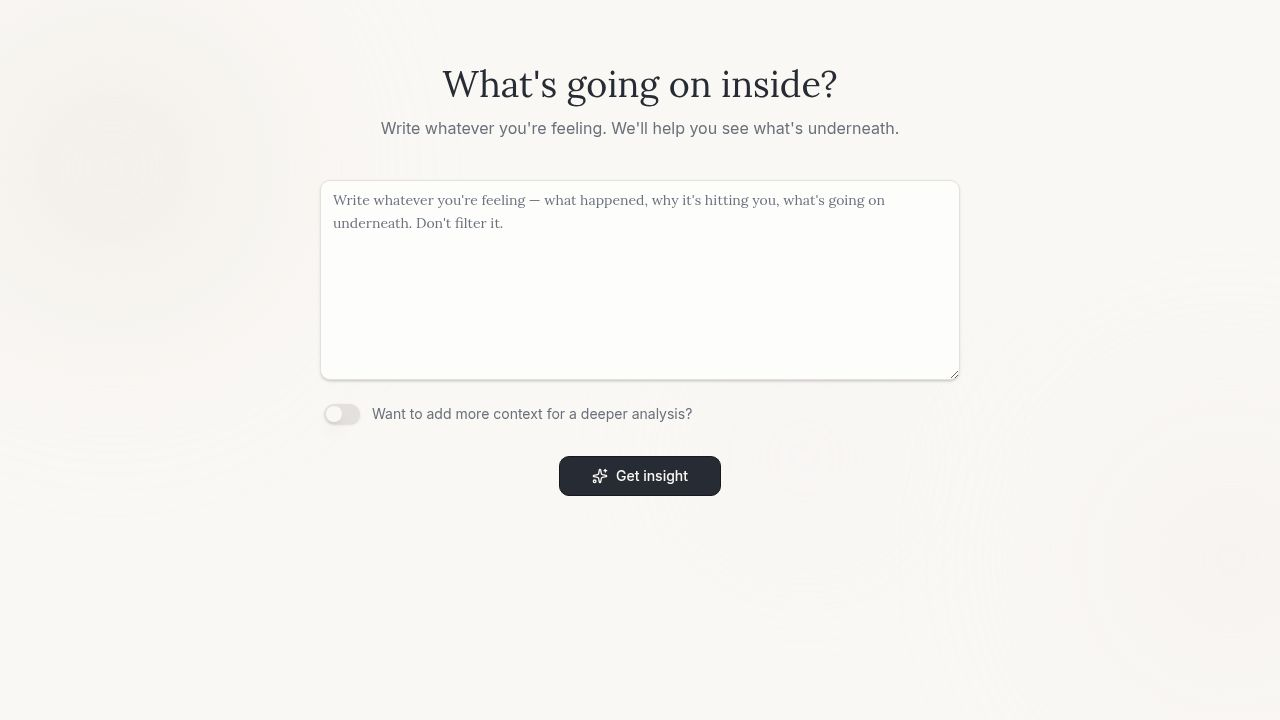
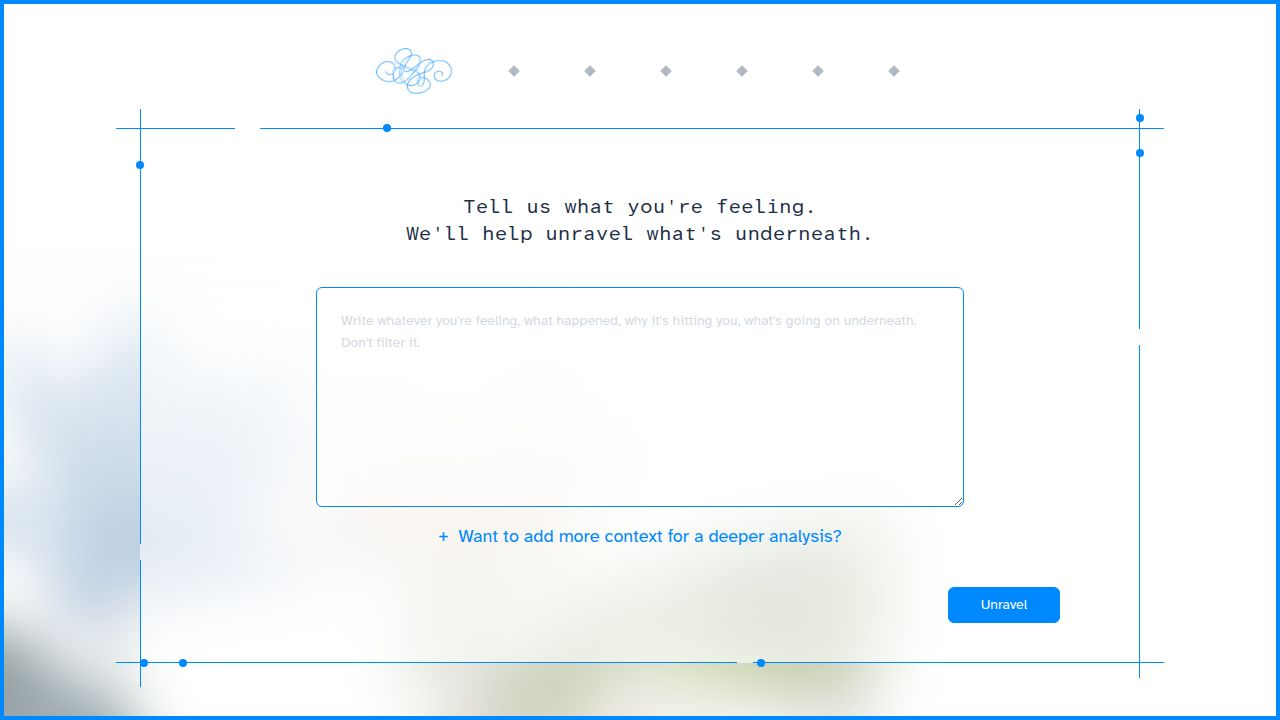
Add interactive breathing animation and refine visual cues
Replace CSS-based animation with a frame-by-frame interactive breathing animation using imported images. Adjust styling for past-visited stages in the progress chain to be less prominent, and ensure the initial animation sequence plays correctly upon first load.

Replit-Commit-Author: Agent
Replit-Commit-Session-Id: 55523b7d-f176-4534-abe3-9e66463d3b3c
Replit-Commit-Checkpoint-Type: full_checkpoint
Replit-Commit-Event-Id: a296139a-07cd-4907-84ef-dc913e513e39
Replit-Commit-Screenshot-Url: https://storage.googleapis.com/screenshot-production-us-central1/5592a5e6-8259-40c3-8d3c-d88697db1bb4/55523b7d-f176-4534-abe3-9e66463d3b3c/Kv6kiFz
Replit-Helium-Checkpoint-Created: true

diff --git a/artifacts/emotional-insight/src/index.css b/artifacts/emotional-insight/src/index.css
@@ -395,9 +395,12 @@
   z-index: -1;
   pointer-events: none;
 }
-/* PAST clickable beads — soft STILL glow. */
+/* PAST (visited) clickable beads — soft STILL glow, smaller/tighter than the
+   current and next beads so completed stages read as quietly "done". */
 .chain-art .chain-bead.past:not(.decorative)::before {
-  background: rgba(0,136,255,0.45);
+  inset: 20%;
+  filter: blur(5px);
+  background: rgba(0,136,255,0.38);
 }
 /* NEXT clickable bead — same glow, gently pulsing in intensity (opacity only,
    so nothing re-rasterizes the bead). */
@@ -599,61 +602,39 @@
 }
 
 /* ── Breathing quatrefoil (intermission "take a breath" animation) ─────────
-   A four-petal cluster rotated 45° so it reads as a diamond/clover. Each loop:
-   inhale — petals draw tight and a white diamond opens at the centre; hold;
-   exhale — the four petals bloom apart into separate dots and fade away,
-   then the cycle resets. ~6s for a calm breathing cadence. */
+   A click-to-play frame sequence (exported from Figma): the blue clover opens
+   a white centre, blooms apart into petals, then dissolves. At rest it shows
+   the full clover with a faint "tap to breathe" hint. */
 .breath-bloom {
   position: relative;
-  width: 96px;
-  height: 96px;
-  transform: rotate(45deg);
+  width: 132px;
+  height: 132px;
+  padding: 0;
+  border: none;
+  background: transparent;
+  cursor: pointer;
+  display: flex;
+  align-items: center;
+  justify-content: center;
 }
-/* Each petal is a rounded blob; the cluster forms the quatrefoil when tight. */
-.breath-bloom .bb-petal {
+.breath-bloom img {
+  width: 115px;
+  height: 115px;
+  display: block;
+  pointer-events: none;
+}
+.breath-bloom .breath-bloom-hint {
   position: absolute;
-  width: 50%;
-  height: 50%;
-  background: #0088ff;
-  border-radius: 42%;
-  animation: bb-breathe 6s ease-in-out infinite;
+  bottom: -26px;
+  left: 50%;
+  transform: translateX(-50%);
+  font-size: 0.75rem;
+  letter-spacing: 0.04em;
+  color: #a8b3c1;
+  white-space: nowrap;
+  transition: opacity 0.3s ease;
 }
-.breath-bloom .bb-petal.tl { top: 0;   left: 0;   transform-origin: bottom right; }
-.breath-bloom .bb-petal.tr { top: 0;   right: 0;  transform-origin: bottom left;  }
-.breath-bloom .bb-petal.bl { bottom: 0; left: 0;  transform-origin: top right;    }
-.breath-bloom .bb-petal.br { bottom: 0; right: 0; transform-origin: top left;     }
-/* White diamond that opens at the centre on the inhale. */
-.breath-bloom .bb-core {
-  position: absolute;
-  inset: 38%;
-  background: #ffffff;
-  border-radius: 16%;
-  animation: bb-core 6s ease-in-out infinite;
-}
-/* Petals start tight (overlapping into a quatrefoil), bloom outward, fade. */
-@keyframes bb-breathe {
-  0%             { transform: translate(0, 0) scale(1);     opacity: 1; }
-  35%            { transform: translate(0, 0) scale(1.04);  opacity: 1; }  /* inhale: gentle swell */
-  60%            { transform: translate(0, 0) scale(1);     opacity: 1; }  /* hold */
-  82%            { transform: translate(var(--bb-x), var(--bb-y)) scale(0.62); opacity: 0; } /* exhale: bloom apart + fade */
-  100%           { transform: translate(0, 0) scale(1);     opacity: 1; }  /* reset */
-}
-.breath-bloom .bb-petal.tl { --bb-x: -26px; --bb-y: -26px; }
-.breath-bloom .bb-petal.tr { --bb-x:  26px; --bb-y: -26px; }
-.breath-bloom .bb-petal.bl { --bb-x: -26px; --bb-y:  26px; }
-.breath-bloom .bb-petal.br { --bb-x:  26px; --bb-y:  26px; }
-@keyframes bb-core {
-  0%   { inset: 42%; opacity: 0; }
-  35%  { inset: 30%; opacity: 1; }   /* opens on the inhale */
-  60%  { inset: 30%; opacity: 1; }   /* hold */
-  78%  { inset: 46%; opacity: 0; }   /* closes as petals bloom away */
-  100% { inset: 42%; opacity: 0; }
-}
-@media (prefers-reduced-motion: reduce) {
-  .breath-bloom .bb-petal,
-  .breath-bloom .bb-core { animation: none; }
-  .breath-bloom .bb-core { inset: 30%; opacity: 1; }
-}
+.breath-bloom:hover .breath-bloom-hint { color: #0088ff; }
 
 /* ── Timeframe selector (What you can do) — mirrors the input diamond chips ─ */
 .timeframe-row {

diff --git a/artifacts/emotional-insight/src/components/result/BreathBloom.tsx b/artifacts/emotional-insight/src/components/result/BreathBloom.tsx
@@ -1,0 +1,78 @@
+import { useEffect, useRef, useState } from "react";
+import f34 from "@assets/Property_1=Frame_34_1780007170989.png";
+import f35 from "@assets/Property_1=Frame_35_1780007170990.png";
+import f36 from "@assets/Property_1=Frame_36_1780007170990.png";
+import f37 from "@assets/Property_1=Frame_37_1780007170991.png";
+import f38 from "@assets/Property_1=Frame_38_1780007170991.png";
+import f39 from "@assets/Property_1=Frame_39_1780007170991.png";
+import f40 from "@assets/Property_1=Frame_40_1780007170991.png";
+import f41 from "@assets/Property_1=Frame_41_1780007170991.png";
+import f42 from "@assets/Property_1=Frame_42_1780007170991.png";
+import f43 from "@assets/Property_1=Frame_43_1780007170992.png";
+import f44 from "@assets/Property_1=Frame_44_1780007170992.png";
+import f45 from "@assets/Property_1=Frame_45_1780007170992.png";
+import f46 from "@assets/Property_1=Frame_46_1780007170993.png";
+import f47 from "@assets/Property_1=Frame_47_1780007170993.png";
+
+/** Ordered bloom-and-dissolve frames from the Figma design. */
+const FRAMES = [f34, f35, f36, f37, f38, f39, f40, f41, f42, f43, f44, f45, f46, f47];
+const FRAME_MS = 85;
+
+/**
+ * Click-to-play breathing animation. Shows the full quatrefoil (first frame)
+ * at rest; tapping plays the frame sequence once — the clover opens, blooms
+ * apart and dissolves — then resets so it can be played again.
+ */
+export function BreathBloom() {
+  const [frame, setFrame] = useState(0);
+  const [playing, setPlaying] = useState(false);
+  const intervalRef = useRef<number | null>(null);
+  const resetRef = useRef<number | null>(null);
+
+  function clearTimers() {
+    if (intervalRef.current != null) window.clearInterval(intervalRef.current);
+    if (resetRef.current != null) window.clearTimeout(resetRef.current);
+    intervalRef.current = null;
+    resetRef.current = null;
+  }
+
+  useEffect(() => clearTimers, []);
+
+  function play() {
+    if (playing) return;
+    clearTimers();
+    setPlaying(true);
+    setFrame(0);
+    let i = 0;
+    intervalRef.current = window.setInterval(() => {
+      i += 1;
+      if (i >= FRAMES.length) {
+        clearTimers();
+        // Hold on the empty final frame briefly, then restore the clover.
+        resetRef.current = window.setTimeout(() => {
+          setFrame(0);
+          setPlaying(false);
+        }, 700);
+        return;
+      }
+      setFrame(i);
+    }, FRAME_MS);
+  }
+
+  return (
+    <button
+      type="button"
+      className="breath-bloom"
+      onClick={play}
+      aria-label="Play a breathing animation"
+      data-testid="button-breath-bloom"
+    >
+      <img src={FRAMES[frame]} alt="" aria-hidden />
+      {!playing && (
+        <span className="breath-bloom-hint" aria-hidden>
+          tap to breathe
+        </span>
+      )}
+    </button>
+  );
+}

diff --git a/artifacts/emotional-insight/src/components/result/InsightView.tsx b/artifacts/emotional-insight/src/components/result/InsightView.tsx
@@ -2,6 +2,7 @@ import { useState, useEffect } from "react";
 import { motion, AnimatePresence } from "framer-motion";
 import { AppFrame } from "@/components/AppFrame";
 import { ChainArtTransition } from "./ChainArt";
+import { BreathBloom } from "./BreathBloom";
 import type { AnalyzeReflectionResponseType } from "@/lib/api";
 
 interface InsightViewProps {
@@ -278,13 +279,7 @@ function BreathStep() {
       <p style={{ fontFamily: "var(--app-font-heading)", fontSize: "1.375rem", color: "#1d2e48", margin: 0, textAlign: "center" }}>
         That was a lot. Take a breath.
       </p>
-      <div className="breath-bloom" aria-hidden>
-        <div className="bb-petal tl" />
-        <div className="bb-petal tr" />
-        <div className="bb-petal bl" />
-        <div className="bb-petal br" />
-        <div className="bb-core" />
-      </div>
+      <BreathBloom />
     </div>
   );
 }